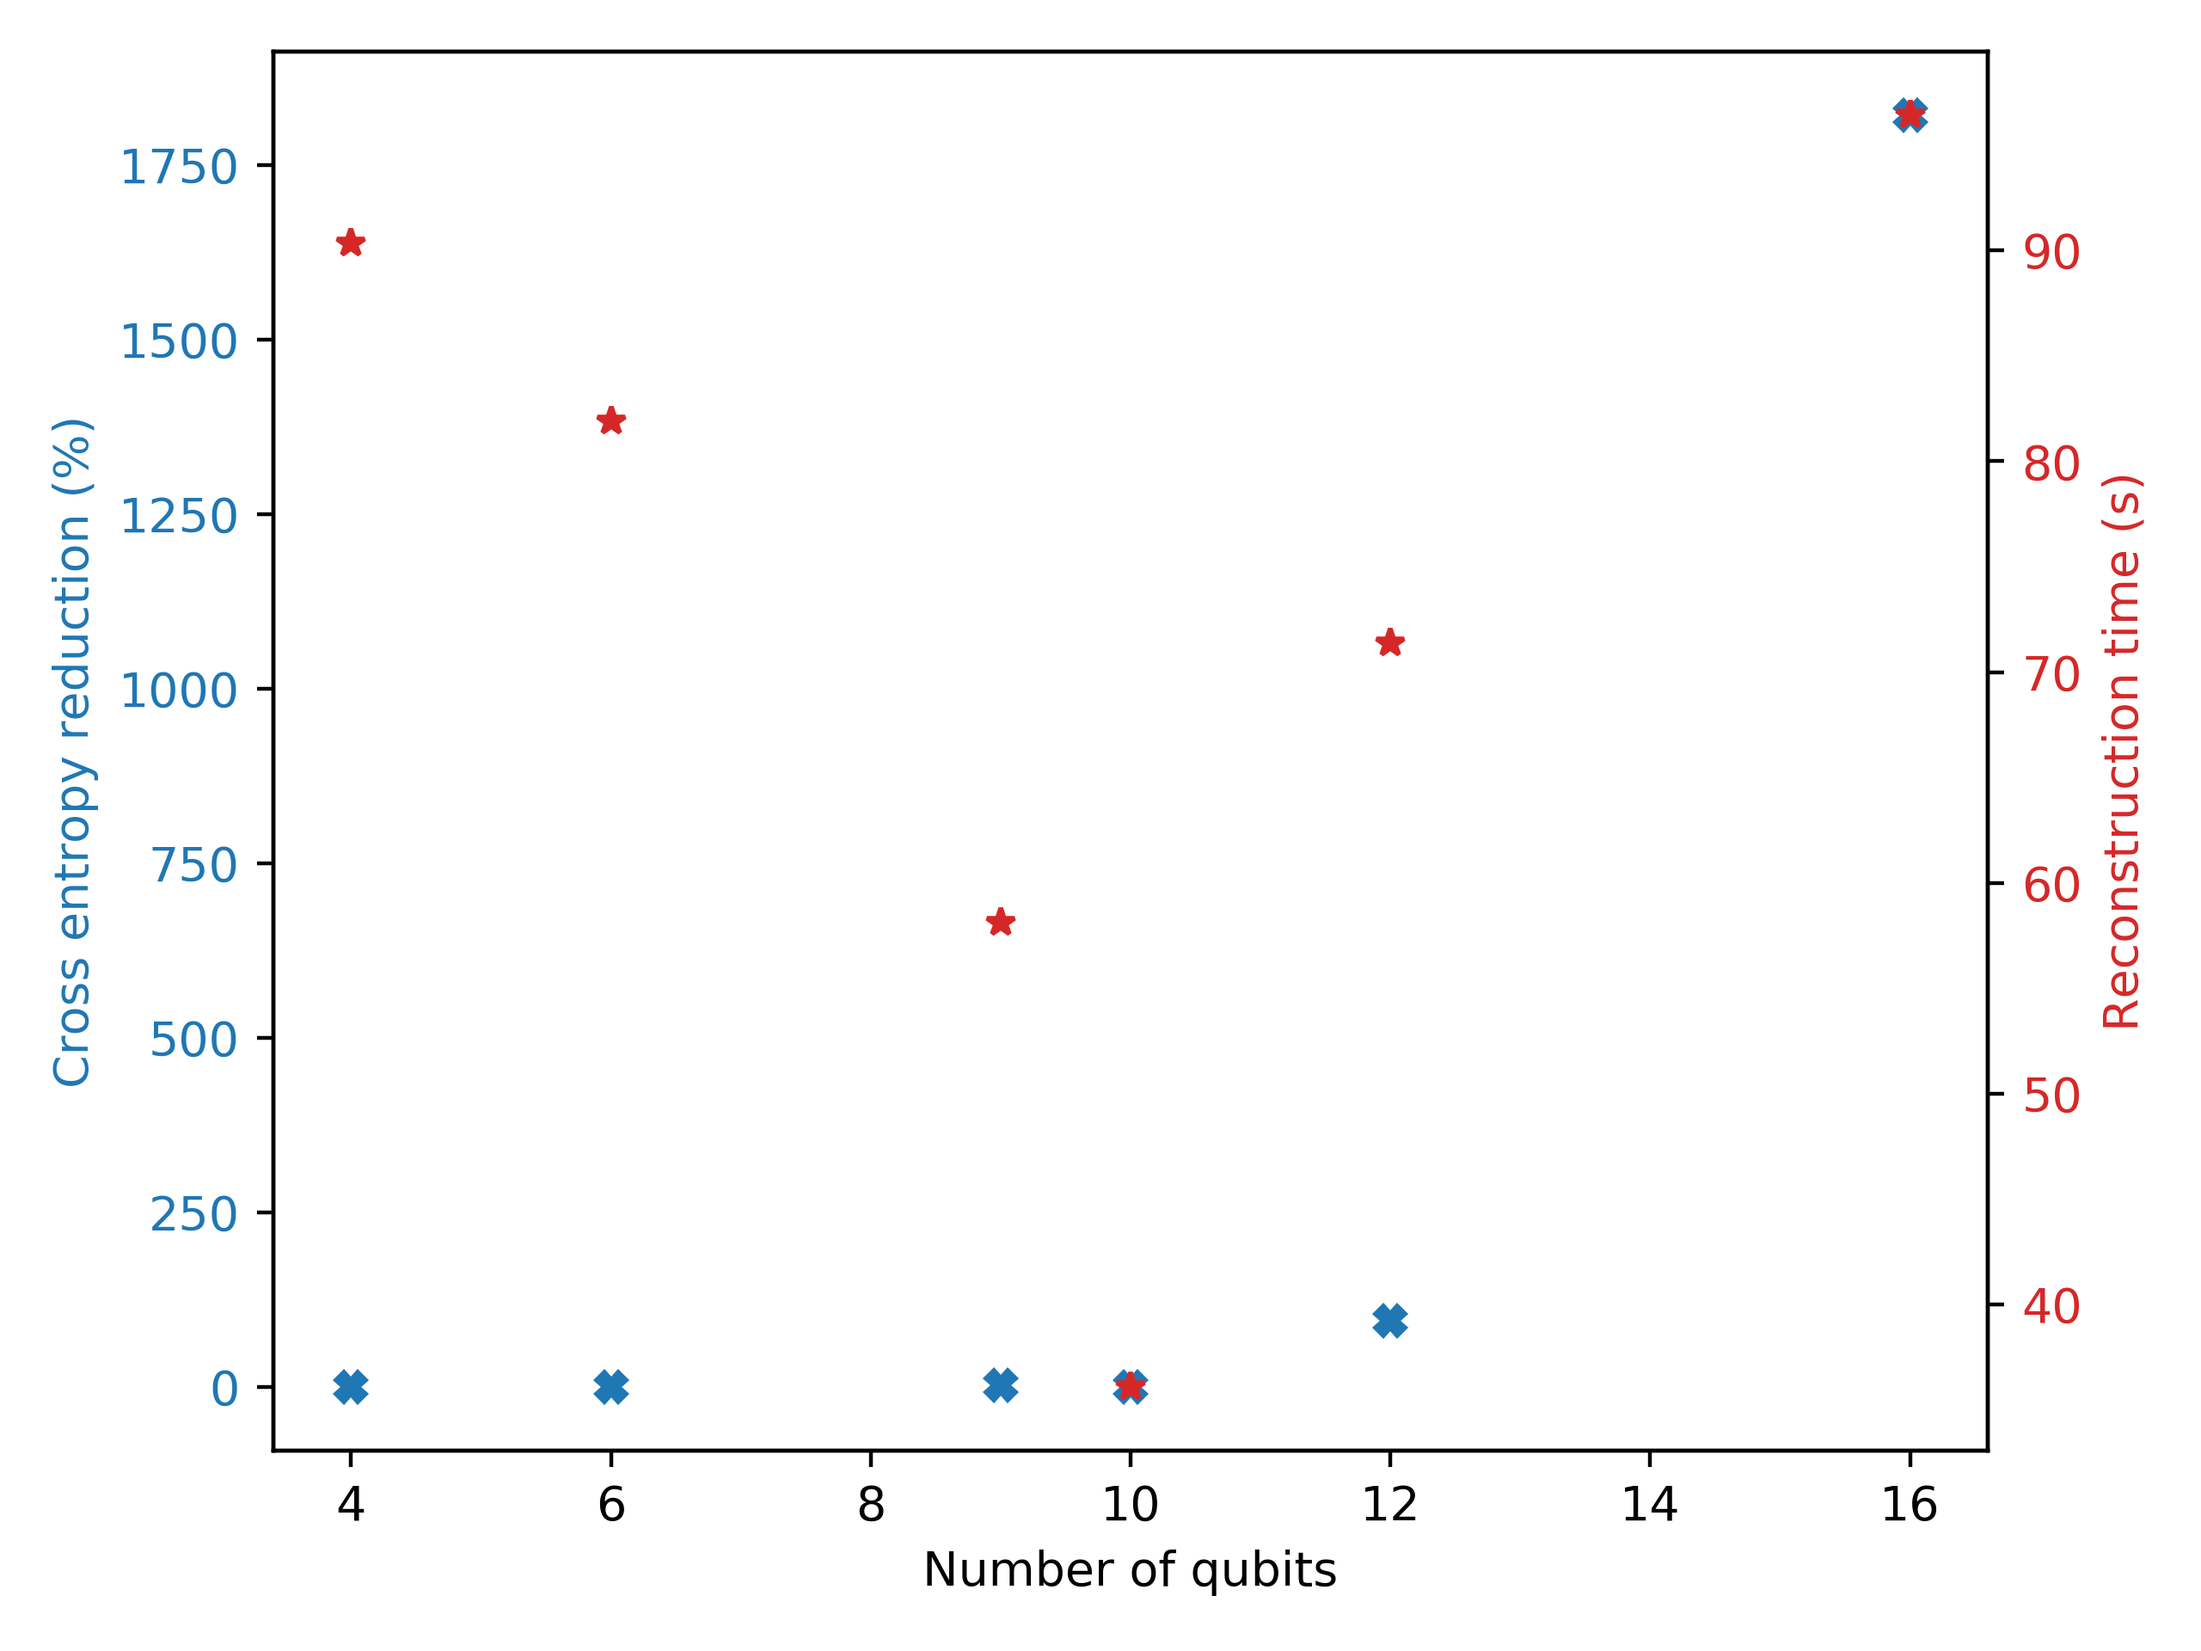
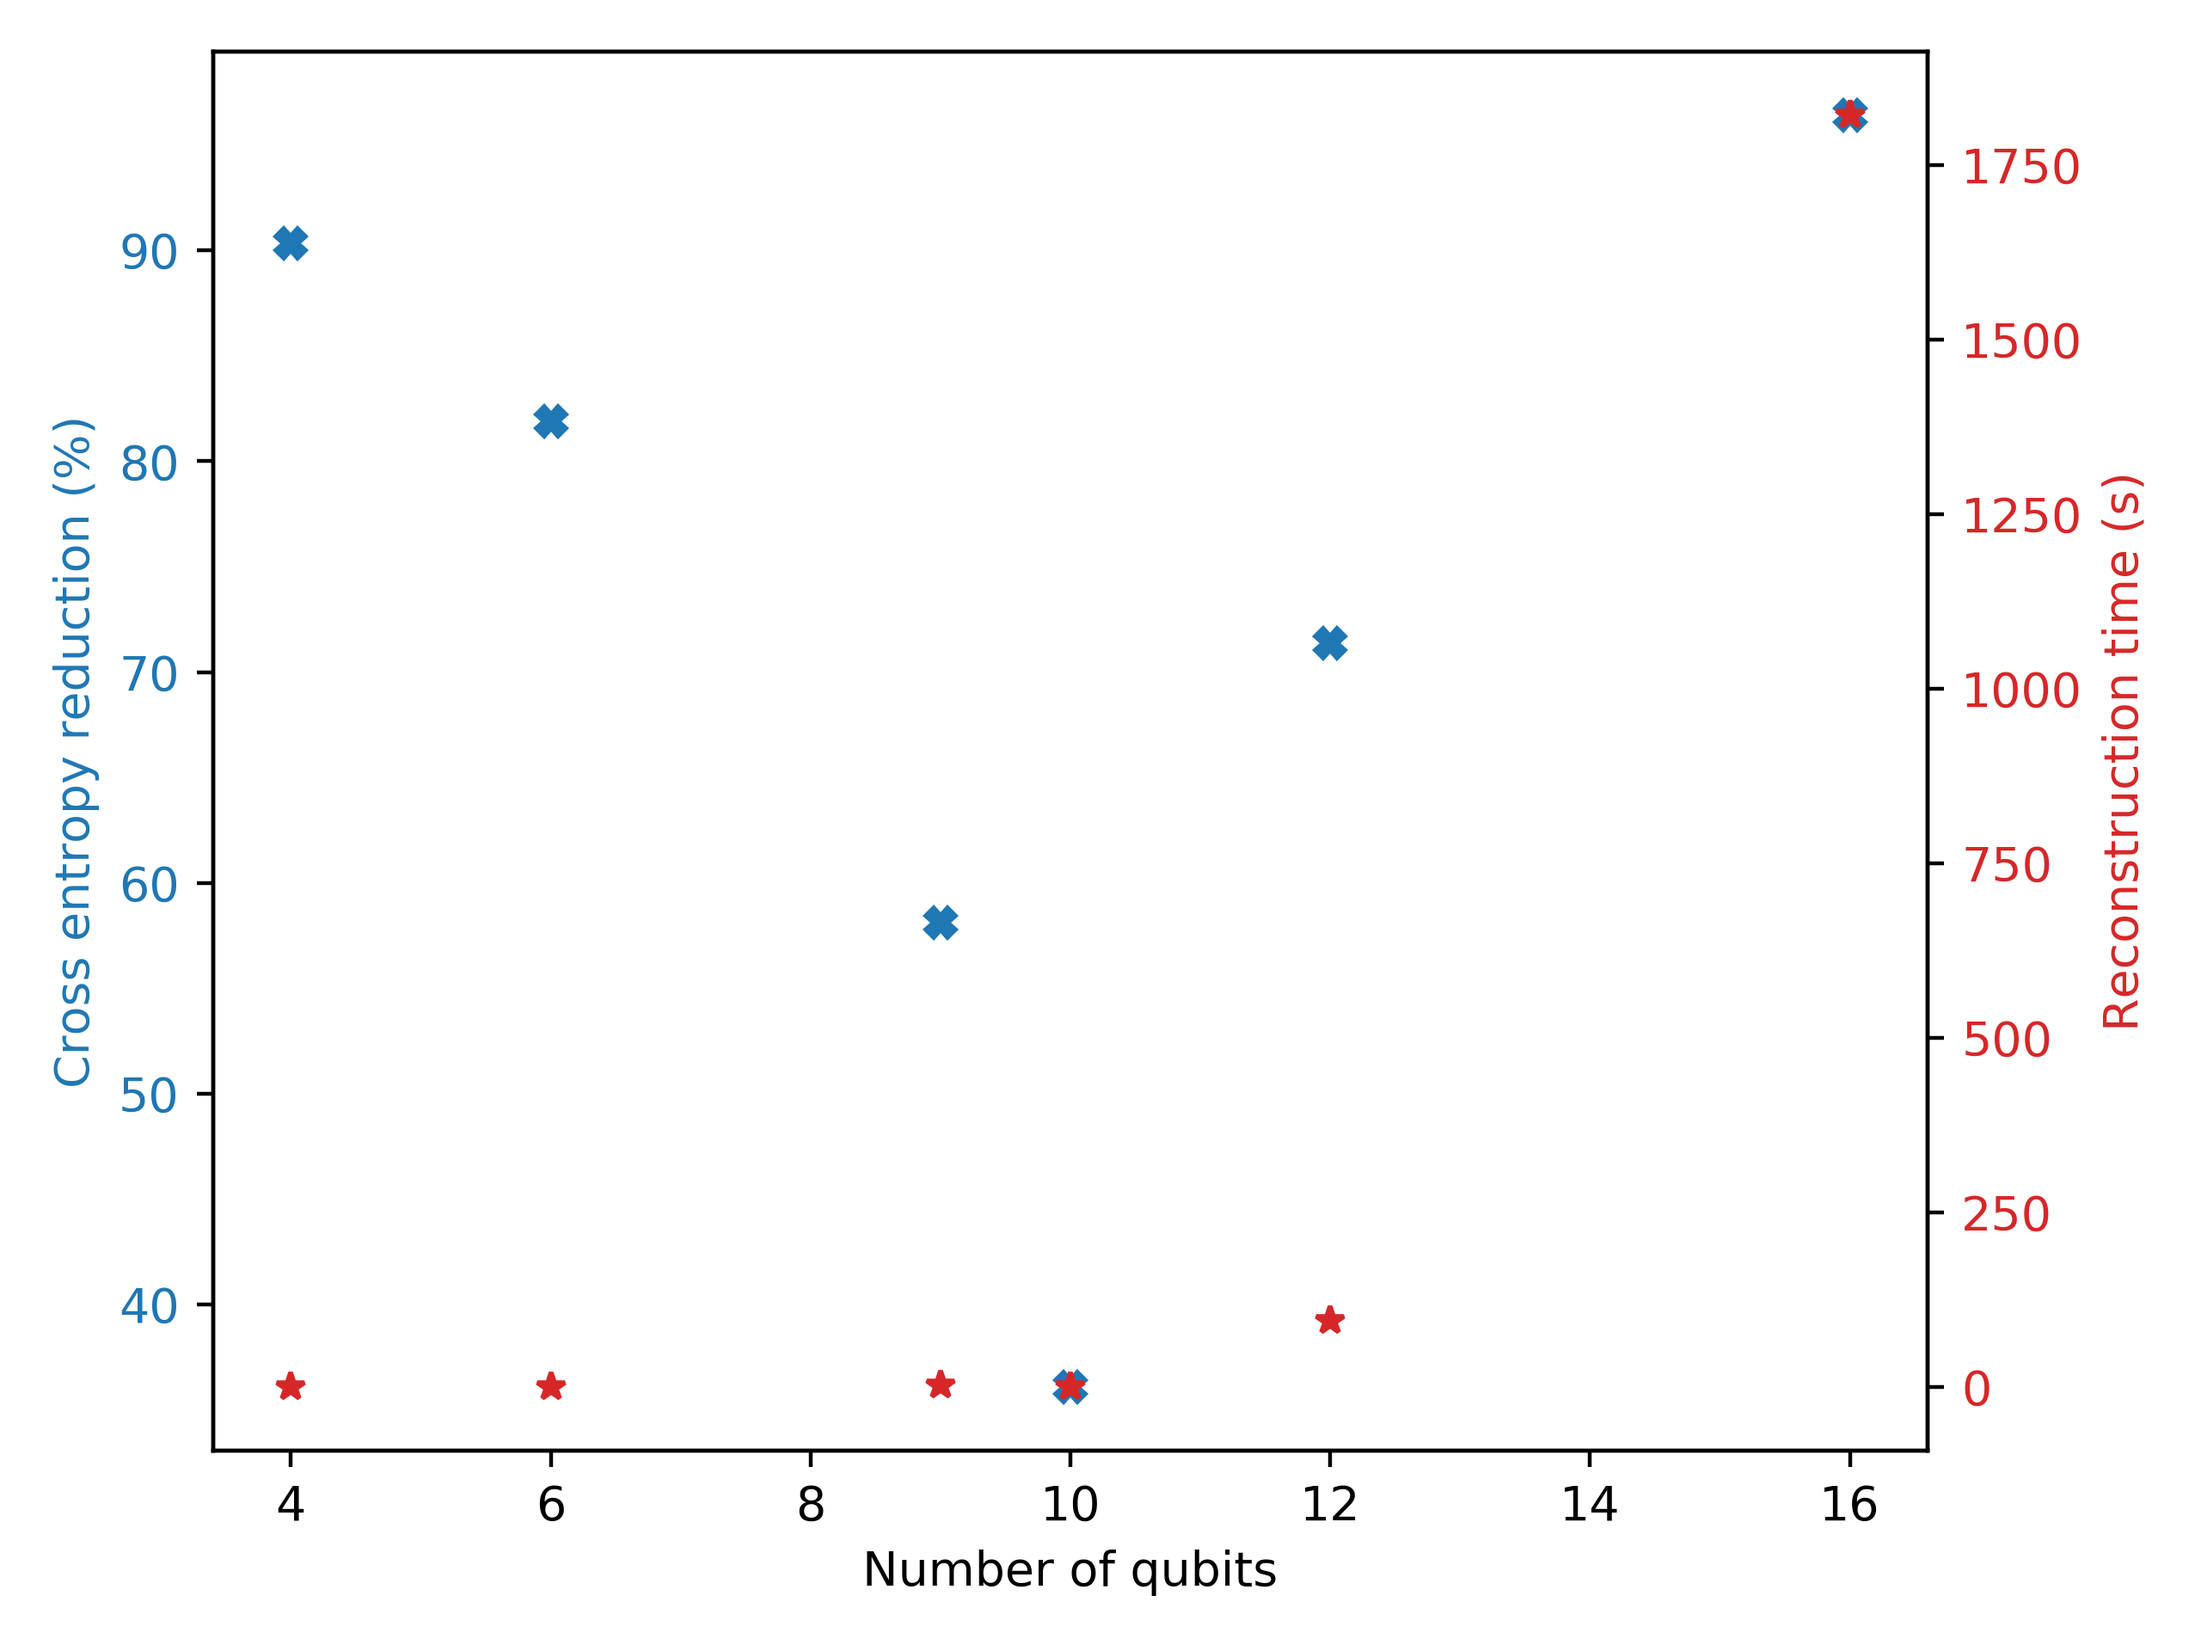
minor debugs

diff --git a/partial_mitigation_test.py b/partial_mitigation_test.py
@@ -1,5 +1,5 @@
 from qcg.generators import gen_supremacy, gen_hwea
-from helper_fun import evaluate_circ, get_evaluator_info, cross_entropy
+from helper_fun import get_evaluator_info, cross_entropy, reverseBits, apply_measurement
 from qiskit import Aer, IBMQ, execute
 from time import time
 import numpy as np
@@ -8,55 +8,109 @@ from qiskit.ignis.mitigation.measurement import (complete_meas_cal, tensored_mea
 from qiskit.compiler import transpile, assemble
 import matplotlib.pyplot as plt
 
-def readout_mitigation(evaluator_info):
-    num_shots = evaluator_info['num_shots']
-    device = evaluator_info['device']
-    initial_layout = evaluator_info['initial_layout']
-    if num_shots>device.configuration().max_shots:
-        print('During readout mitigation, num_shots %.3e exceeded hardware max'%num_shots)
-        num_shots = device.configuration().max_shots
-    filter_begin = time()
-    properties = device.properties()
-    num_qubits = len(properties.qubits)
+def apply_mitigation(raw,meas_fitter):
+    num_mitigated_qubits = int(np.log2(len(meas_fitter.cal_matrix)))
+    print(num_mitigated_qubits)
 
-    # Generate the calibration circuits
-    qr = QuantumRegister(num_qubits)
-    qubit_list = []
-    _initial_layout = initial_layout.get_physical_bits()
-    for q in _initial_layout:
-        if 'ancilla' not in _initial_layout[q].register.name:
-            qubit_list.append(q)
-    meas_calibs, state_labels = complete_meas_cal(qubit_list=qubit_list, qr=qr, circlabel='mcal')
-    print('Calculating measurement filter, %d-qubit calibration circuits * %d * %.3e shots.'%(len(meas_calibs[0].qubits),len(meas_calibs),num_shots),end=' ')
-    assert len(meas_calibs)<=device.configuration().max_experiments/3*2
+def evaluate_circ(circ, backend, evaluator_info):
+    if backend == 'statevector_simulator':
+        # print('using statevector simulator')
+        backend = Aer.get_backend('statevector_simulator')
+        job = execute(circ, backend=backend)
+        result = job.result()
+        outputstate = result.get_statevector(circ)
+        outputstate_ordered = [0 for sv in outputstate]
+        for i, sv in enumerate(outputstate):
+            reverse_i = reverseBits(i,len(circ.qubits))
+            outputstate_ordered[reverse_i] = sv
+        sv_prob = [np.power(np.absolute(x),2) for x in outputstate_ordered]
+        return sv_prob
+    elif backend == 'noiseless_qasm_simulator':
+        # print('using noiseless qasm simulator %d shots'%num_shots)
+        backend = Aer.get_backend('qasm_simulator')
+        qc = apply_measurement(circ)
 
-    # Execute the calibration circuits
-    meas_calibs_transpiled = transpile(meas_calibs, backend=device)
-    device = Aer.get_backend('qasm_simulator')
-    cal_results = execute(experiments=meas_calibs_transpiled,
-        backend=device,
-        coupling_map=evaluator_info['coupling_map'],
+        num_shots = evaluator_info['num_shots']
+        noiseless_qasm_result = execute(qc, backend, shots=num_shots).result()
+        noiseless_counts = noiseless_qasm_result.get_counts(qc)
+        noiseless_prob = [0 for x in range(np.power(2,len(circ.qubits)))]
+        for state in noiseless_counts:
+            reversed_state = reverseBits(int(state,2),len(circ.qubits))
+            noiseless_prob[reversed_state] = noiseless_counts[state]/num_shots
+        return noiseless_prob
+    elif backend == 'noisy_qasm_simulator':
+        # print('using noisy qasm simulator {} shots'.format(num_shots))
+        backend = Aer.get_backend('qasm_simulator')
+        qc=apply_measurement(circ)
+        mapped_circuit = transpile(qc,
+        backend=evaluator_info['device'], basis_gates=evaluator_info['basis_gates'], 
+        coupling_map=evaluator_info['coupling_map'],backend_properties=evaluator_info['properties'],
+        initial_layout=evaluator_info['initial_layout'])
+        noisy_qasm_result = execute(experiments=mapped_circuit,
+        backend=backend,
         noise_model=evaluator_info['noise_model'],
+        coupling_map=evaluator_info['coupling_map'],
         basis_gates=evaluator_info['basis_gates'],
         shots=evaluator_info['num_shots']).result()
+        if 'meas_filter' in evaluator_info:
+            noisy_qasm_result = evaluator_info['meas_filter'].apply(noisy_qasm_result)
+        # elif 'meas_fitter' in evaluator_info:
+        #     noisy_qasm_result = apply_mitigation(noisy_qasm_result,meas_fitter)
+        noisy_counts = noisy_qasm_result.get_counts(qc)
+        print(noisy_counts)
+        noisy_prob = [0 for x in range(np.power(2,len(circ.qubits)))]
+        for state in noisy_counts:
+            reversed_state = reverseBits(int(state,2),len(circ.qubits))
+            noisy_prob[reversed_state] = noisy_counts[state]/evaluator_info['num_shots']
+        return noisy_prob
+    elif backend == 'hardware':
+        qc=apply_measurement(circ)
 
-    meas_fitter = CompleteMeasFitter(cal_results, state_labels, qubit_list=qubit_list, circlabel='mcal')
-    meas_filter = meas_fitter.filter
-    filter_time = time() - filter_begin
-    print('%.3e seconds'%filter_time)
-    return meas_filter, meas_fitter
+        mapped_circuit = transpile(qc,
+        backend=evaluator_info['device'], basis_gates=evaluator_info['basis_gates'],
+        coupling_map=evaluator_info['coupling_map'],backend_properties=evaluator_info['properties'],
+        initial_layout=evaluator_info['initial_layout'])
+
+        device_max_shots = evaluator_info['device'].configuration().max_shots
+        remaining_shots = evaluator_info['num_shots']
+        hw_counts = {}
+        while remaining_shots>0:
+            batch_shots = min(remaining_shots,device_max_shots)
+            qobj = assemble(mapped_circuit, backend=evaluator_info['device'], shots=batch_shots)
+            print('Submitted %d shots to hardware'%(batch_shots))
+            job = evaluator_info['device'].run(qobj)
+            hw_result = job.result()
+            if 'meas_filter' in evaluator_info:
+                print('Mitigation for %d qubit circuit'%(len(circ.qubits)))
+                mitigation_begin = time()
+                mitigated_results = evaluator_info['meas_filter'].apply(hw_result)
+                hw_counts_batch = mitigated_results.get_counts(0)
+                print('Mitigation for %d qubit circuit took %.3e seconds'%(len(circ.qubits),time()-mitigation_begin))
+            else:
+                hw_counts_batch = hw_result.get_counts(qc)
+            for state in hw_counts_batch:
+                if state not in hw_counts:
+                    hw_counts[state] = hw_counts_batch[state]
+                else:
+                    hw_counts[state] += hw_counts_batch[state]
+            remaining_shots -= batch_shots
+        
+        hw_prob = [0 for x in range(np.power(2,len(circ.qubits)))]
+        for state in hw_counts:
+            reversed_state = reverseBits(int(state,2),len(circ.qubits))
+            hw_prob[reversed_state] = hw_counts[state]/evaluator_info['num_shots']
+        return hw_prob
+    else:
+        raise Exception('Illegal backend :',backend)
 
 def partial_readout_mitigation(evaluator_info):
-    device = evaluator_info['device']
-    num_shots = evaluator_info['num_shots']
-    if num_shots>device.configuration().max_shots:
-        print('During readout mitigation, num_shots %.3e exceeded hardware max'%num_shots)
-        num_shots = device.configuration().max_shots
     filter_begin = time()
+    device = evaluator_info['device']
+    num_shots = device.configuration().max_shots
     properties = evaluator_info['properties']
     num_qubits = len(properties.qubits)
     max_group_len = int(np.log2(device.configuration().max_experiments/2))
-    max_group_len = 3
+    max_group_len = 1
 
     # Generate the calibration circuits
     qr = QuantumRegister(num_qubits)
@@ -66,15 +120,17 @@ def partial_readout_mitigation(evaluator_info):
         if 'ancilla' not in _initial_layout[q].register.name and len(qubit_list)<max_group_len:
             qubit_list.append(q)
     meas_calibs, state_labels = complete_meas_cal(qubit_list=qubit_list, qr=qr, circlabel='mcal')
+    print(evaluator_info['initial_layout'])
+    print('Calibrating for:',qubit_list)
     print('Calculating measurement filter, %d-qubit calibration circuits * %d * %.3e shots.'%(len(meas_calibs[0].qubits),len(meas_calibs),num_shots),end=' ')
     assert len(meas_calibs)<=device.configuration().max_experiments/2
 
     # Execute the calibration circuits
-    device = Aer.get_backend('qasm_simulator')
     meas_calibs_transpiled = transpile(meas_calibs, backend=device)
     cal_results = execute(experiments=meas_calibs_transpiled,
-        backend=device,
+        backend=Aer.get_backend('qasm_simulator'),
         coupling_map=evaluator_info['coupling_map'],
+        noise_model=evaluator_info['noise_model'],
         basis_gates=evaluator_info['basis_gates'],
         shots=evaluator_info['num_shots']).result()
 
@@ -93,12 +149,14 @@ evaluator_info = get_evaluator_info(circ=circ,device_name='ibmq_boeblingen',fiel
 qasm_noise = evaluate_circ(circ=circ, backend='noisy_qasm_simulator', evaluator_info=evaluator_info)
 print('No mitigation:', qasm_noise)
 
-meas_filter, meas_fitter = readout_mitigation(evaluator_info)
-evaluator_info['meas_filter'] = meas_filter
+meas_filter, meas_fitter = partial_readout_mitigation(evaluator_info)
+# evaluator_info['meas_filter'] = meas_filter
 qasm_noise_mitigated = evaluate_circ(circ=circ, backend='noisy_qasm_simulator', evaluator_info=evaluator_info)
 print('With mitigation:', qasm_noise_mitigated)
 
+print(meas_fitter.cal_matrix)
 meas_fitter.plot_calibration()
+print(len(meas_fitter.cal_matrix))
 
 plot_range = min(64,len(ground_truth))
 x = np.arange(len(ground_truth))[:plot_range]
@@ -108,18 +166,18 @@ plt.bar(x,height=ground_truth[:plot_range],label='ground truth, %.3e'%cross_entr
 plt.xlabel('quantum state')
 plt.ylabel('probability')
 plt.legend()
-plt.show()
+plt.savefig('./plots/ground_truth.png',dpi=400)
 
 plt.figure()
 plt.bar(x,height=qasm_noise_mitigated[:plot_range],label='mitigated, %.3e'%cross_entropy(ground_truth,qasm_noise_mitigated))
 plt.xlabel('quantum state')
 plt.ylabel('probability')
 plt.legend()
-plt.show()
+plt.savefig('./plots/mitigated.png',dpi=400)
 
 plt.figure()
 plt.bar(x,height=qasm_noise[:plot_range],label='no mitigation, %.3e'%cross_entropy(ground_truth,qasm_noise))
 plt.xlabel('quantum state')
 plt.ylabel('probability')
 plt.legend()
-plt.show()
+plt.savefig('./plots/vanilla.png',dpi=400)

diff --git a/plot.py b/plot.py
@@ -64,8 +64,8 @@ if __name__ == '__main__':
                 case_cutting = cross_entropy(target=plotter_input[case]['evaluations']['sv_noiseless'],
                 obs= plotter_input[case]['evaluations']['cutting'])
 
-                # FIXME: percent change calculations are wrong
                 case_percent_change = 100*(case_hw_fc - case_cutting)/(case_hw_fc - case_ground_truth)
+                # case_percent_change = (case_hw_fc - case_ground_truth)/(case_cutting - case_ground_truth)
                 print('case {}: percentage reduction = {}, reconstruction time: {:.3e}'.format(case,
                 case_percent_change,plotter_input[case]['uniter_time']))
                 assert case_percent_change == plotter_input[case]['percent_reduction']
@@ -99,14 +99,14 @@ if __name__ == '__main__':
         color = 'tab:blue'
         ax1.set_xlabel('Number of qubits')
         ax1.set_ylabel('Cross entropy reduction (%)', color=color)  # we already handled the x-label with ax1
-        ax1.plot([fc for fc in best_cc], [best_cc[fc][1] for fc in best_cc], 'X',color=color)
+        ax1.plot([fc for fc in best_cc], [best_cc[fc][0] for fc in best_cc], 'X',color=color)
         ax1.tick_params(axis='y', labelcolor=color)
 
         ax2 = ax1.twinx()  # instantiate a second axes that shares the same x-axis
 
         color = 'tab:red'
         ax2.set_ylabel('Reconstruction time (s)', color=color)
-        ax2.plot([fc for fc in best_cc], [best_cc[fc][0] for fc in best_cc], '*',color=color)
+        ax2.plot([fc for fc in best_cc], [best_cc[fc][1] for fc in best_cc], '*',color=color)
         ax2.tick_params(axis='y', labelcolor=color)
 
         fig.tight_layout()  # otherwise the right y-label is slightly clipped
